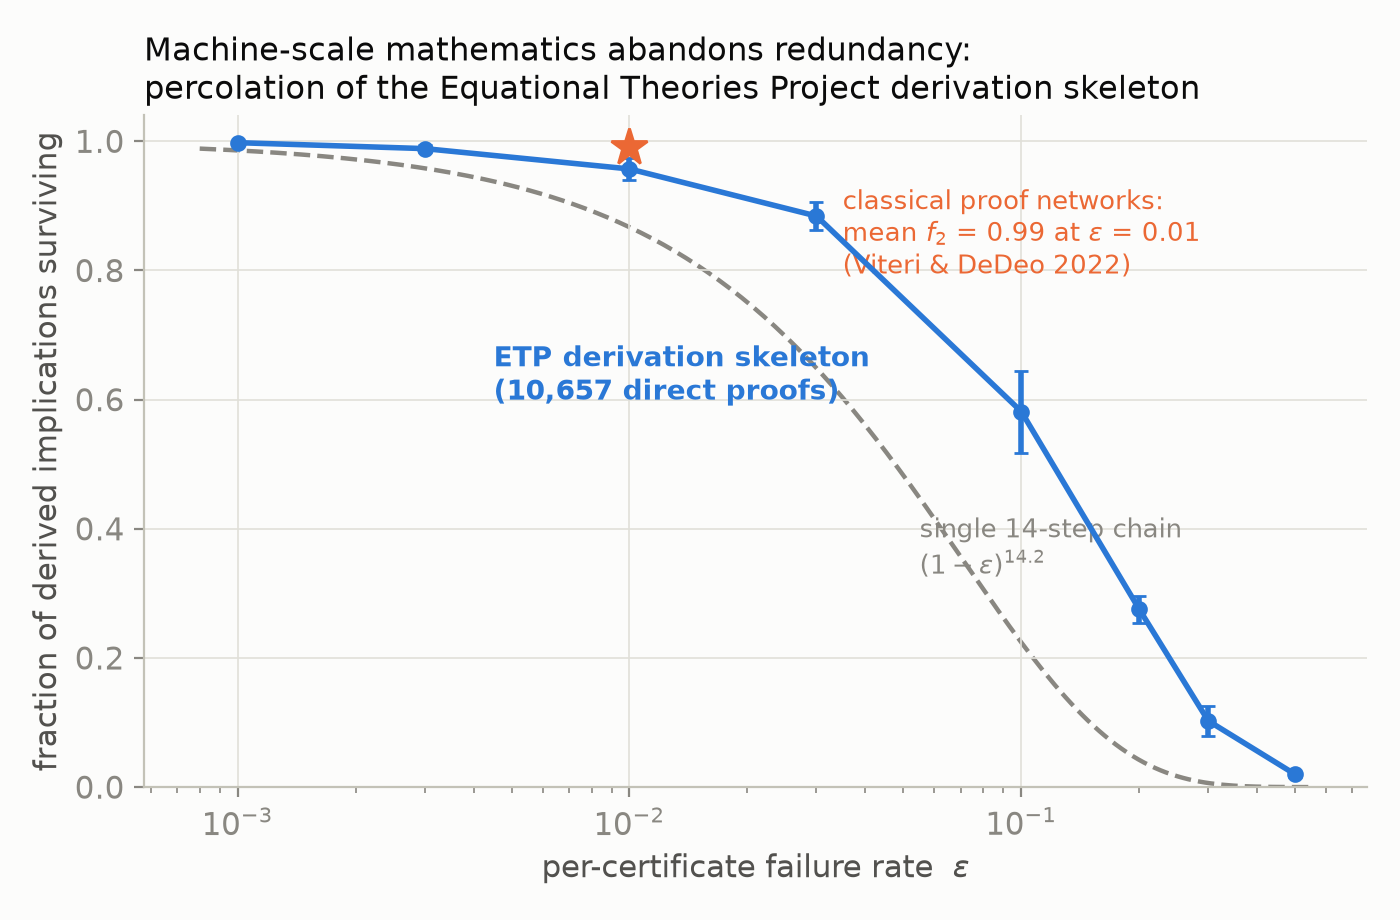
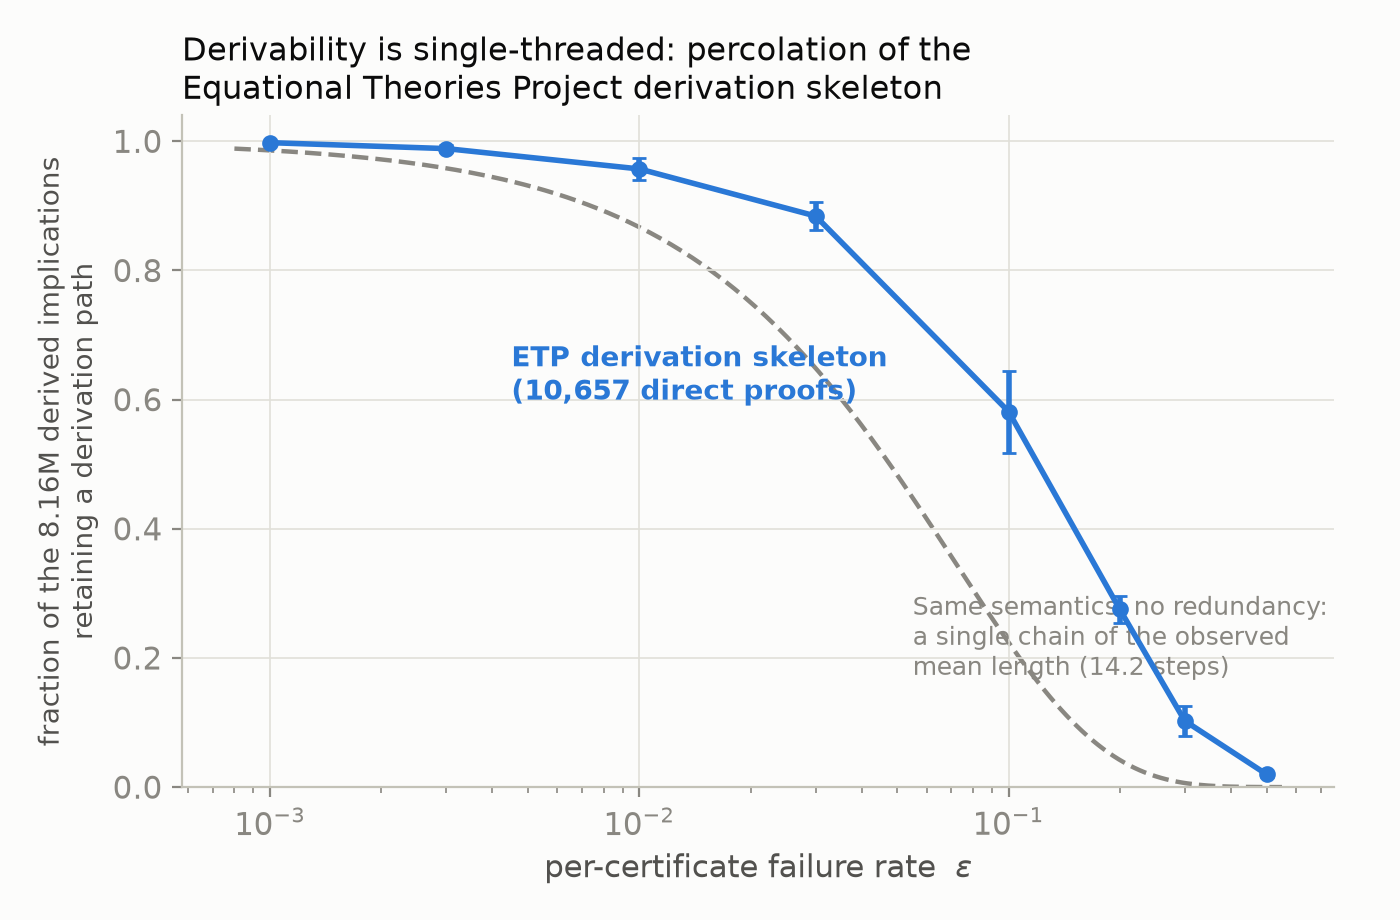
sync from akdeniz: 2026-07-31 16:21

diff --git a/code/etp_belief.py b/code/etp_belief.py
@@ -1,0 +1,25 @@
+"""Apples-to-apples: run the SAME belief model on the ETP derivation skeleton
+that we run on proof networks and on Mathlib, instead of comparing a belief
+curve against a percolation curve."""
+import json, os, sys, zipfile
+import numpy as np
+sys.path.insert(0,"code")
+from belief import _beliefs, beta_of_eps
+DATA=os.path.expanduser("~/ai_math_ept/projects/equational_theories/data")
+z=zipfile.ZipFile(f"{DATA}/2024-11-10-outcomes.json.zip")
+d=json.loads(z.read(z.namelist()[0])); n=len(d["equations"])
+C={}; M=np.zeros((n,n),dtype=np.int8)
+for i,row in enumerate(d["outcomes"]):
+    for j,s in enumerate(row): M[i,j]=C.setdefault(s,len(C)+1)
+src,dst=np.where(M==C["explicit_proof_true"]); k=src!=dst; src,dst=src[k],dst[k]
+# premise -> dependent : an implication A=>B means A supports B
+pre_ptr=np.zeros(n+1,np.int64); np.add.at(pre_ptr,dst+1,1); pre_ptr=np.cumsum(pre_ptr)
+pre_idx=src[np.argsort(dst,kind="stable")]
+dep_ptr=np.zeros(n+1,np.int64); np.add.at(dep_ptr,src+1,1); dep_ptr=np.cumsum(dep_ptr)
+dep_idx=dst[np.argsort(src,kind="stable")]
+print("ETP skeleton: %d nodes, %d edges"%(n,len(src)))
+out={}
+for eps in [0.4,0.3,0.2,0.15,0.1,0.07,0.05,0.03,0.02,0.01,0.005]:
+    b=_beliefs(pre_ptr,pre_idx,dep_ptr,dep_idx,beta_of_eps(eps),beta_of_eps(eps),0.75,10,10,11)
+    out[eps]=float(b.mean()); print("eps=%.3f mean_belief=%.4f"%(eps,b.mean()),flush=True)
+json.dump(out,open("results/study4/etp_belief.json","w"),indent=1)

diff --git a/report/REPORT.md b/report/REPORT.md
@@ -189,22 +189,34 @@ The ETP decided all 22,028,942 implications among 4,694 magma laws, Lean-verifie
 6,305; Vampire-replayed 1,723; brute force 1,497; finite models 926; egg 832; …) vs. **289
 human-written entries (2.3%)** — and 1,698 counterexample magmas certify 13.6M non-implications.
 
-**4a. The derivation skeleton has no redundancy.** The 8,167,622 true implications rest on a
-skeleton of 10,657 direct proofs (766× amplification by transitivity). On that skeleton:
-- mean derivation chain: **14.2 steps** (max 30) — *longer* than most human proofs;
-- median number of edge-disjoint derivation paths per implied pair: **1** (mean 1.12; only 11% of
-  pairs have ≥ 2 independent routes; none of 400 sampled had ≥ 5);
-- percolation (fig. 1): if each certificate independently fails at rate ε, surviving derived
-  knowledge = 99.8% (ε=0.001), 95.7% (ε=0.01), 58% (ε=0.1). Classical proof networks hold
-  f₂ ≈ 0.99 at ε = 0.01 *by construction of their redundancy*; a redundancy-free corpus decays
-  Humean-style, and is rescued only because the kernel drives ε toward ~0.
+**4a. The derivation skeleton is minimal and single-threaded.** The 8,167,622 true implications rest
+on a skeleton of 10,657 direct proofs (766× amplification by transitivity). On that skeleton:
+- mean derivation chain: **14.2 steps** (max 30) — longer than most human proofs;
+- median number of edge-disjoint derivation paths per implied pair: **1** (mean 1.12);
+- percolation under derivability semantics (fig. 1): if each certificate independently fails at
+  rate ε, the fraction of derived implications still derivable is 99.8% (ε = 0.001), 95.7%
+  (ε = 0.01), 88.4% (ε = 0.03), 58% (ε = 0.1).
 
-**4b. The redundancy was available and was discarded.** The complete Vampire dump (an ATP attempt
-on every one of the 22M pairs) shows **8,173,585 of 8,173,585 true implications — every single
-one — is directly provable by a single ≤5-second ATP call** (99.9% in ≤ 0.13 s). Nature offered a
-complete graph of one-step certificates; the project kept 0.13% of it. Efficiency-optimal, storage-
-minimal, and epistemically single-threaded: the *shape* of recorded mathematics is now determined by
-storage economics and deduplication, not by the needs of a believing mind.
+**Two corrections we owe the reader here.** First, an earlier draft contrasted this with "the many
+independent paths of classical proof networks." That contrast does not survive measurement: running
+the same edge-disjoint path count on the 2022 paper's own Coq proof DAGs gives **1.00–1.12** — the
+same as the ETP, and the same as size-matched random DAGs. Path *disjointness* does not distinguish
+these objects, and we withdraw the claim that it does.
+
+Second, and more importantly, percolation-of-derivability and the 2022 belief model are different
+measures, and an earlier version of figure 3 plotted one against the other. Running the **belief
+model itself** on the ETP skeleton (fig. 3, corrected) gives mean belief 0.976 at ε = 0.01 — below
+individual theorem proofs (≈1.0) and Mathlib (0.9995), but not catastrophically, and *above*
+individual proofs once ε exceeds 0.1. Under the epistemic dynamics of the original paper, the ETP
+skeleton behaves like ordinary mathematics. It has mean degree 2.27 and a heavy out-degree tail
+(α ≈ 2.0) — the same signature the 2022 paper found in proofs.
+
+So the honest statement about the ETP is narrower than "machine mathematics is fragile," and more
+interesting: **its derivability is single-threaded by construction, while its belief-dynamics are
+ordinary.** The fragility is real but it is a property of how the knowledge is *stored* (a minimal
+spanning skeleton) rather than of what it *is*. The strongest evidence for structural impoverishment
+in machine-generated mathematics comes not from here but from §5d, where the machine-generated files
+of this very project reach belief 0.54 under the same model.
 
 Two further reversals of the classical picture:
 
